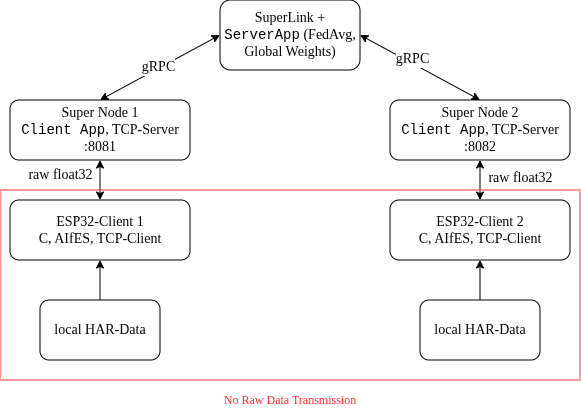
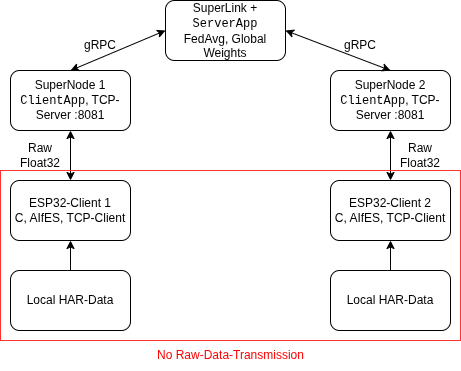
Changed system architecture image

diff --git a/README.md b/README.md
@@ -1,7 +1,7 @@
 # IMPORTANT NOTE
 This project was implemented by J. Pretzel, A. Newe, S. Goldstein, J. Lammers, and M. Berlin
 
-![system_architecture](assets/system_architecture.png)
+<div style="text-align: center;">![system_architecture](assets/system_architecture.png)</div>
 
 # ods-prog-prak
 This project aims to be a Proof of Concept implementation Federated Learning performed on a Flower.ai client with an ESP32 using ~300kB RAM.